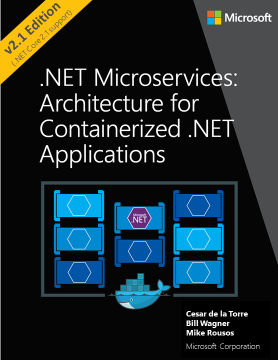
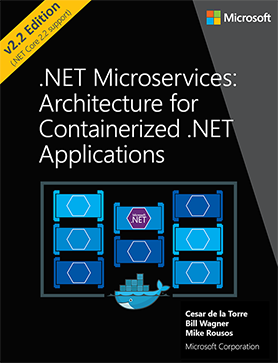
.NET Core 2.2 updates to Microservices eBook (#9873)
* Updated to 2.2 - text changes and Docker references

* Updated Cover

* Changes from review comments and other minor text updates

* Fix typo

* Fixed Duplicate statement

* Minor URL changes

* Updated ms.date

diff --git a/docs/standard/microservices-architecture/docker-application-development-process/docker-app-development-workflow.md b/docs/standard/microservices-architecture/docker-application-development-process/docker-app-development-workflow.md
@@ -3,7 +3,7 @@ title: Development workflow for Docker apps
 description: Understand the details of the workflow for developing Docker-based applications. Begin step by step and get into some details to optimize Dockerfiles and end with the simplified workflow available when using Visual Studio.
 author: CESARDELATORRE
 ms.author: wiwagn
-ms.date: 09/27/2018
+ms.date: 01/07/2019
 ---
 # Development workflow for Docker apps
 
@@ -91,14 +91,14 @@ In a similar fashion, Visual Studio can also add a docker-compose.yml file for t
 
 You usually build a custom image for your container on top of a base image you get from an official repository like the [Docker Hub](https://hub.docker.com/) registry. That is precisely what happens under the covers when you enable Docker support in Visual Studio. Your Dockerfile will use an existing `aspnetcore` image.
 
-Earlier we explained which Docker images and repos you can use, depending on the framework and OS you have chosen. For instance, if you want to use ASP.NET Core (Linux or Windows), the image to use is `microsoft/dotnet:2.1-aspnetcore-runtime`. Therefore, you just need to specify what base Docker image you will use for your container. You do that by adding `FROM microsoft/dotnet:2.1-aspnetcore-runtime` to your Dockerfile. This will be automatically performed by Visual Studio, but if you were to update the version, you update this value.
+Earlier we explained which Docker images and repos you can use, depending on the framework and OS you have chosen. For instance, if you want to use ASP.NET Core (Linux or Windows), the image to use is `microsoft/dotnet:2.2-aspnetcore-runtime`. Therefore, you just need to specify what base Docker image you will use for your container. You do that by adding `FROM microsoft/dotnet:2.2-aspnetcore-runtime` to your Dockerfile. This will be automatically performed by Visual Studio, but if you were to update the version, you update this value.
 
 Using an official .NET image repository from Docker Hub with a version number ensures that the same language features are available on all machines (including development, testing, and production).
 
 The following example shows a sample Dockerfile for an ASP.NET Core container.
 
 ```Dockerfile
-FROM microsoft/aspnetcore:2.0
+FROM microsoft/dotnet:2.2-aspnetcore-runtime
 ARG source
 WORKDIR /app
 EXPOSE 80
@@ -106,7 +106,7 @@ COPY ${source:-obj/Docker/publish} .
 ENTRYPOINT ["dotnet", " MySingleContainerWebApp.dll "]
 ```
 
-In this case, the image is based on version 2.1 of the official ASP.NET Core Docker image (multi-arch for Linux and Windows). This is the setting `FROM microsoft/dotnet:2.1-aspnetcore-runtime`. (For more information about this base image, see the [ASP.NET Core Docker Image](https://hub.docker.com/r/microsoft/aspnetcore/) page and the [.NET Core Docker Image](https://hub.docker.com/r/microsoft/dotnet/) page.) In the Dockerfile, you also need to instruct Docker to listen on the TCP port you will use at runtime (in this case, port 80, as configured with the EXPOSE setting).
+In this case, the image is based on version 2.2 of the official ASP.NET Core Docker image (multi-arch for Linux and Windows). This is the setting `FROM microsoft/dotnet:2.2-aspnetcore-runtime`. (For more information about this base image, see the [.NET Core Docker Image](https://hub.docker.com/r/microsoft/dotnet/) page.) In the Dockerfile, you also need to instruct Docker to listen on the TCP port you will use at runtime (in this case, port 80, as configured with the EXPOSE setting).
 
 You can specify additional configuration settings in the Dockerfile, depending on the language and framework you're using. For instance, the ENTRYPOINT line with `["dotnet", "MySingleContainerWebApp.dll"]` tells Docker to run a .NET Core application. If you're using the SDK and the .NET Core CLI (dotnet CLI) to build and run the .NET application, this setting would be different. The bottom line is that the ENTRYPOINT line and other settings will be different depending on the language and platform you choose for your application.
 
@@ -126,20 +126,20 @@ You can specify additional configuration settings in the Dockerfile, depending o
 
 ### Using multi-arch image repositories
 
-A single repo can contain platform variants, such as a Linux image and a Windows image. This feature allows vendors like Microsoft (base image creators) to create a single repo to cover multiple platforms (that is Linux and Windows). For example, the [microsoft/aspnetcore](https://hub.docker.com/r/microsoft/aspnetcore/) repository available in the Docker Hub registry provides support for Linux and Windows Nano Server by using the same repo name.
+A single repo can contain platform variants, such as a Linux image and a Windows image. This feature allows vendors like Microsoft (base image creators) to create a single repo to cover multiple platforms (that is Linux and Windows). For example, the [microsoft/dotnet](https://hub.docker.com/r/microsoft/dotnet/) repository available in the Docker Hub registry provides support for Linux and Windows Nano Server by using the same repo name.
 
 If you specify a tag, targeting a platform that is explicit like in the following cases:
 
-- `microsoft/dotnet:2.1-aspnetcore-runtime-stretch-slim` \
-  Targets: .NET Core 2.1 runtime-only on Linux
+- `microsoft/dotnet:2.2-aspnetcore-runtime-stretch-slim` \
+  Targets: .NET Core 2.2 runtime-only on Linux
 
-- `microsoft/dotnet:2.1-aspnetcore-runtime-nanoserver-1709` \
-  Targets: .NET Core 2.1 runtime-only on Windows Nano Server
+- `microsoft/dotnet:2.2-aspnetcore-runtime-nanoserver-1809` \
+  Targets: .NET Core 2.2 runtime-only on Windows Nano Server
 
 But, if you specify the same image name, even with the same tag, the multi-arch images (like the `aspnetcore` image) will use the Linux or Windows version depending on the Docker host OS you're deploying, as shown in the following example:
 
-- `microsoft/dotnet:2.1-aspnetcore-runtime` \
-  Multi-arch: .NET Core 2.1 runtime-only on Linux or Windows Nano Server depending on the Docker host OS
+- `microsoft/dotnet:2.2-aspnetcore-runtime` \
+  Multi-arch: .NET Core 2.2 runtime-only on Linux or Windows Nano Server depending on the Docker host OS
 
 This way, when you pull an image from a Windows host, it will pull the Windows variant, and pulling the same image name from a Linux host will pull the Linux variant.
 
@@ -168,11 +168,11 @@ Probably the best way to understand multi-stage is going through a Dockerfile in
 The initial Dockerfile might look something like this:
 
 ```Dockerfile
- 1  FROM microsoft/dotnet:2.1-aspnetcore-runtime AS base
+ 1  FROM microsoft/dotnet:2.2-aspnetcore-runtime AS base
  2  WORKDIR /app
  3  EXPOSE 80
  4
- 5  FROM microsoft/dotnet:2.1-sdk AS build
+ 5  FROM microsoft/dotnet:2.2-sdk AS build
  6  WORKDIR /src
  7  COPY src/Services/Catalog/Catalog.API/Catalog.API.csproj …
  8  COPY src/BuildingBlocks/HealthChecks/src/Microsoft.AspNetCore.HealthChecks … 
@@ -260,11 +260,11 @@ For the final optimization, it just happens that line 20 is redundant, as line 2
 The resulting file is then:
 
 ```Dockerfile
- 1  FROM microsoft/dotnet:2.1-aspnetcore-runtime AS base
+ 1  FROM microsoft/dotnet:2.2-aspnetcore-runtime AS base
  2  WORKDIR /app
  3  EXPOSE 80
  4
- 5  FROM microsoft/dotnet:2.1-sdk AS publish
+ 5  FROM microsoft/dotnet:2.2-sdk AS publish
  6  WORKDIR /src
  7  COPY . .
  8  RUN dotnet restore /ignoreprojectextensions:.dcproj

diff --git a/docs/standard/microservices-architecture/multi-container-microservice-net-applications/background-tasks-with-ihostedservice.md b/docs/standard/microservices-architecture/multi-container-microservice-net-applications/background-tasks-with-ihostedservice.md
@@ -3,7 +3,7 @@ title: Implement background tasks in microservices with IHostedService and the B
 description: .NET Microservices Architecture for Containerized .NET Applications | Understand the new options to use IHostedService and BackgroundService to implement background tasks in microservices .NET Core.
 author: CESARDELATORRE
 ms.author: wiwagn
-ms.date: 10/02/2018
+ms.date: 01/07/2019
 ---
 # Implement background tasks in microservices with IHostedService and the BackgroundService class
 
@@ -21,11 +21,11 @@ Note the difference made between `WebHost` and `Host`.
 
 A `WebHost` (base class implementing `IWebHost`) in ASP.NET Core 2.0 is the infrastructure artifact you use to provide HTTP server features to your process, such as if you are implementing an MVC web app or Web API service. It provides all the new infrastructure goodness in ASP.NET Core, enabling you to use dependency injection, insert middlewares in the request pipeline, etc. and precisely use these `IHostedServices` for background tasks.
 
-A `Host` (base class implementing `IHost`), however, is something new in .NET Core 2.1. Basically, a `Host` allows you to have a similar infrastructure than what you have with `WebHost` (dependency injection, hosted services, etc.), but in this case, you just want to have a simple and lighter process as the host, with nothing related to MVC, Web API or HTTP server features.
+A `Host` (base class implementing `IHost`) was introduced in .NET Core 2.1. Basically, a `Host` allows you to have a similar infrastructure than what you have with `WebHost` (dependency injection, hosted services, etc.), but in this case, you just want to have a simple and lighter process as the host, with nothing related to MVC, Web API or HTTP server features.
 
 Therefore, you can choose and either create a specialized host-process with IHost to handle the hosted services and nothing else, such a microservice made just for hosting the `IHostedServices`, or you can alternatively extend an existing ASP.NET Core `WebHost`, such as an existing ASP.NET Core Web API or MVC app. 
 
-Each approach has pros and cons depending on your business and scalability needs. The bottom line is basically that if your background tasks have nothing to do with HTTP (IWebHost) you should use IHost (with .NET Core 2.1).
+Each approach has pros and cons depending on your business and scalability needs. The bottom line is basically that if your background tasks have nothing to do with HTTP (IWebHost) you should use IHost.
 
 ## Registering hosted services in your WebHost or Host
 
@@ -41,7 +41,7 @@ SignalR is one example of an artifact using hosted services, but you can also us
 
 You can basically offload any of those actions to a background task based on IHostedService.
 
-The way you add one or multiple `IHostedServices` into your `WebHost` or `Host` is by registering them up through the standard DI (dependency injection) in an ASP.NET Core `WebHost` (or in a `Host` in .NET Core 2.1). Basically, you have to register the hosted services within the familiar `ConfigureServices()` method of the `Startup` class, as in the following code from a typical ASP.NET WebHost. 
+The way you add one or multiple `IHostedServices` into your `WebHost` or `Host` is by registering them up through the standard DI (dependency injection) in an ASP.NET Core `WebHost` (or in a `Host` in .NET Core 2.1 and above). Basically, you have to register the hosted services within the familiar `ConfigureServices()` method of the `Startup` class, as in the following code from a typical ASP.NET WebHost. 
 
 ```csharp
 public IServiceProvider ConfigureServices(IServiceCollection services)
@@ -95,11 +95,11 @@ As a developer, you are responsible for handling the stopping action or your ser
 
 You could go ahead and create your custom hosted service class from scratch and implement the `IHostedService`, as you need to do when using .NET Core 2.0. 
 
-However, since most background tasks will have similar needs in regard to the cancellation tokens management and other typical operations, .NET Core 2.1 provides a very convenient abstract base class you can derive from, named BackgroundService.
+However, since most background tasks will have similar needs in regard to the cancellation tokens management and other typical operations, there is a convenient abstract base class you can derive from, named `BackgroundService` (available since .NET Core 2.1).
 
 That class provides the main work needed to set up the background task.
 
-The next code is the abstract BackgroundService base class as implemented in .NET Core 2.1.
+The next code is the abstract BackgroundService base class as implemented in .NET Core.
 
 ```csharp
 // Copyright (c) .NET Foundation. Licensed under the Apache License, Version 2.0. 
@@ -243,7 +243,7 @@ The `IHostedService` interface provides a convenient way to start background tas
 -   **Implementing IHostedService in ASP.NET Core 2.0** <br/>
     [*https://www.stevejgordon.co.uk/asp-net-core-2-ihostedservice*](https://www.stevejgordon.co.uk/asp-net-core-2-ihostedservice)
 
--   **ASP.NET Core 2.1 Hosting samples** <br/>
+-   **GenericHost Sample using ASP.NET Core 2.1** <br/>
     [*https://github.com/aspnet/Hosting/tree/release/2.1/samples/GenericHostSample*](https://github.com/aspnet/Hosting/tree/release/2.1/samples/GenericHostSample)
 
 >[!div class="step-by-step"]

diff --git a/docs/standard/microservices-architecture/net-core-net-framework-containers/official-net-docker-images.md b/docs/standard/microservices-architecture/net-core-net-framework-containers/official-net-docker-images.md
@@ -3,7 +3,7 @@ title: Official .NET Docker images
 description: .NET Microservices Architecture for Containerized .NET Applications | Official .NET Docker images
 author: CESARDELATORRE
 ms.author: wiwagn
-ms.date: 09/11/2018
+ms.date: 01/07/2019
 ---
 # Official .NET Docker images
 
@@ -25,13 +25,13 @@ Why multiple images? When developing, building, and running containerized applic
 
 ### During development and build
 
-During development, what is important is how fast you can iterate changes, and the ability to debug the changes. The size of the image is not as important as the ability to make changes to your code and see the changes quickly. Some tools and "build-agent containers", use the development .NET Core image (*microsoft/dotnet:2.1-sdk*) during development and build proces. When building inside a Docker container, the important aspects are the elements that are needed in order to compile your app. This includes the compiler and any other .NET dependencies.
+During development, what is important is how fast you can iterate changes, and the ability to debug the changes. The size of the image is not as important as the ability to make changes to your code and see the changes quickly. Some tools and "build-agent containers", use the development .NET Core image (*microsoft/dotnet:2.2-sdk*) during development and build proces. When building inside a Docker container, the important aspects are the elements that are needed in order to compile your app. This includes the compiler and any other .NET dependencies.
 
 Why is this type of build image important? You do not deploy this image to production. Instead, it is an image you use to build the content you place into a production image. This image would be used in your continuous integration (CI) environment or build environment when using Docker Multi-stage builds.
 
 ### In production
 
-What is important in production is how fast you can deploy and start your containers based on a production .NET Core image. Therefore, the runtime-only image based on *microsoft/dotnet:2.1-aspnetcore-runtime* is small so that it can travel quickly across the network from your Docker registry to your Docker hosts. The contents are ready to run, enabling the fastest time from starting the container to processing results. In the Docker model, there is no need for compilation from C\# code, as there is when you run dotnet build or dotnet publish when using the build container.
+What is important in production is how fast you can deploy and start your containers based on a production .NET Core image. Therefore, the runtime-only image based on *microsoft/dotnet:2.2-aspnetcore-runtime* is small so that it can travel quickly across the network from your Docker registry to your Docker hosts. The contents are ready to run, enabling the fastest time from starting the container to processing results. In the Docker model, there is no need for compilation from C\# code, as there is when you run dotnet build or dotnet publish when using the build container.
 
 In this optimized image you put only the binaries and other content needed to run the application. For example, the content created by dotnet publish contains only the compiled .NET binaries, images, .js, and .css files. Over time, you will see images that contain pre-jitted (the compilation from IL to native that occurs at runtime) packages.
 
@@ -41,8 +41,8 @@ When you explore the .NET image repositories at Docker Hub, you will find multip
 
 | Image                                       | Comments                                                                                          |
 | ------------------------------------------- | ------------------------------------------------------------------------------------------------- |
-| microsoft/dotnet:**2.1-aspnetcore-runtime** | ASP.NET Core, with runtime only and ASP.NET Core optimizations, on Linux and Windows (multi-arch) |
-| microsoft/dotnet:**2.1-sdk**                | .NET Core, with SDKs included, on Linux and Windows (multi-arch)                                  |
+| microsoft/dotnet:**2.2-aspnetcore-runtime** | ASP.NET Core, with runtime only and ASP.NET Core optimizations, on Linux and Windows (multi-arch) |
+| microsoft/dotnet:**2.2-sdk**                | .NET Core, with SDKs included, on Linux and Windows (multi-arch)                                  |
 
 >[!div class="step-by-step"]
 >[Previous](net-container-os-targets.md)

diff --git a/docs/standard/microservices-architecture/index.md b/docs/standard/microservices-architecture/index.md
@@ -3,13 +3,13 @@ title: .NET Microservices. Architecture for Containerized .NET Applications
 description: .NET Microservices Architecture for Containerized .NET Applications | Microservices are modular and independently deployable services. Docker containers (for Linux and Windows) simplify deployment and testing by bundling a service and its dependencies into a single unit, which is then run in an isolated environment.
 author: CESARDELATORRE
 ms.author: wiwagn
-ms.date: 08/31/2018
+ms.date: 01/07/2019
 ---
 # .NET Microservices: Architecture for Containerized .NET Applications
 
 ![Book cover](./media/cover-small.png)
 
-**EDITION v2.1.03** - Updated to ASP.NET Core 2.1
+**EDITION v2.2.00** - Updated to ASP.NET Core 2.2
 
 This guide is an introduction to developing microservices-based applications and managing them using containers. It discusses architectural design and implementation approaches using .NET Core and Docker containers. 
 
@@ -43,7 +43,7 @@ After you have studied this guide, your next step would be to learn about produc
 
 ## Version
 
-This guide has been revised to cover **.NET Core 2.1** version plus many additional updates related to the same “wave” of technologies (that is. Azure and additional 3rd party technologies) coinciding in time with .NET Core 2.1. That’s why the book version has also been updated to version **2.1**. 
+This guide has been revised to cover **.NET Core 2.2** version plus many additional updates related to the same “wave” of technologies (that is. Azure and additional 3rd party technologies) coinciding in time with .NET Core 2.2. That’s why the book version has also been updated to version **2.2**. 
 
 ## What this guide does not cover
 
@@ -118,6 +118,8 @@ Participants and reviewers:
 >
 > **Scott Hunter**, Partner Director PM, .NET team, Microsoft
 >
+> **Nish Anil**, Sr. Program Manager, .NET team, Microsoft
+>
 > **Dylan Reisenberger**, Architect and Dev Lead at Polly
 >
 > **Steve Smith**, Software Craftsman & Trainer at ASPSmith Ltd.
@@ -141,7 +143,6 @@ Participants and reviewers:
 > **Charles Lowell**, Software Engineer, VS CAT team, Microsoft
 >
 > **Miguel Veloso**, Sr. Consultant at Turing Challenge
-
 
 ## Copyright
 

diff --git a/docs/standard/microservices-architecture/multi-container-microservice-net-applications/data-driven-crud-microservice.md b/docs/standard/microservices-architecture/multi-container-microservice-net-applications/data-driven-crud-microservice.md
@@ -3,7 +3,7 @@ title: Creating a simple data-driven CRUD microservice
 description: .NET Microservices Architecture for Containerized .NET Applications | Understand the creation of a simple CRUD (data driven) microservice within the context of a microservices application.
 author: CESARDELATORRE
 ms.author: wiwagn
-ms.date: 10/02/2018
+ms.date: 01/07/2019
 ---
 # Creating a simple data-driven CRUD microservice
 
@@ -420,10 +420,10 @@ It is that simple. And because it is automatically generated, the Swagger metada
   [*https://docs.microsoft.com/aspnet/core/tutorials/web-api-help-pages-using-swagger*](https://docs.microsoft.com/aspnet/core/tutorials/web-api-help-pages-using-swagger)
 
 - **Get started with Swashbuckle and ASP.NET Core** \
-  [*https://docs.microsoft.com/aspnet/core/tutorials/getting-started-with-swashbuckle?view=aspnetcore-2.1\&tabs=visual-studio%2Cvisual-studio-xml*](https://docs.microsoft.com/aspnet/core/tutorials/getting-started-with-swashbuckle?view=aspnetcore-2.1\&tabs=visual-studio%2Cvisual-studio-xml)
+  [*https://docs.microsoft.com/aspnet/core/tutorials/getting-started-with-swashbuckle?tabs=visual-studio*](https://docs.microsoft.com/aspnet/core/tutorials/getting-started-with-swashbuckle?tabs=visual-studio)
 
 - **Get started with NSwag and ASP.NET Core** \
-  [*https://docs.microsoft.com/aspnet/core/tutorials/getting-started-with-nswag?view=aspnetcore-2.1\&tabs=visual-studio%2Cvisual-studio-xml*](https://docs.microsoft.com/en-us/aspnet/core/tutorials/getting-started-with-nswag?view=aspnetcore-2.1\&tabs=visual-studio%2Cvisual-studio-xml)
+  [*https://docs.microsoft.com/aspnet/core/tutorials/getting-started-with-nswag?tabs=visual-studio*](https://docs.microsoft.com/aspnet/core/tutorials/getting-started-with-nswag?tabs=visual-studio)
 
 >[!div class="step-by-step"]
 >[Previous](microservice-application-design.md)

diff --git a/docs/standard/microservices-architecture/container-docker-introduction/docker-terminology.md b/docs/standard/microservices-architecture/container-docker-introduction/docker-terminology.md
@@ -3,7 +3,7 @@ title: Docker terminology
 description: .NET Microservices Architecture for Containerized .NET Applications | Docker terminology
 author: CESARDELATORRE
 ms.author: wiwagn
-ms.date: 08/31/2018
+ms.date: 01/07/2019
 ---
 # Docker terminology
 
@@ -27,7 +27,7 @@ This section lists terms and definitions you should be familiar with before gett
 
 **Registry**: A service that provides access to repositories. The default registry for most public images is [Docker Hub](https://hub.docker.com/) (owned by Docker as an organization). A registry usually contains repositories from multiple teams. Companies often have private registries to store and manage images they've created. Azure Container Registry is another example.
 
-**Multi-arch image**: For multi-architecture, is a feature that simplifies the selection of the appropriate image, according to the platform where Docker is running, e.g. when a Dockerfile requests a base image **FROM microsoft/dotnet:2.1-sdk** from the registry it actually gets **2.1-sdk-nanoserver-1709**, **2.1-sdk-nanoserver-1803** or **2.1-sdk-alpine**, depending on the operating system and version where Docker is running.
+**Multi-arch image**: For multi-architecture, is a feature that simplifies the selection of the appropriate image, according to the platform where Docker is running, e.g. when a Dockerfile requests a base image **FROM microsoft/dotnet:2.2-sdk** from the registry it actually gets **2.2-sdk-nanoserver-1709**, **2.2-sdk-nanoserver-1803**, **2.2-sdk-nanoserver-1809** or **2.2-sdk-alpine**, depending on the operating system and version where Docker is running.
 
 **Docker Hub**: A public registry to upload images and work with them. Docker Hub provides Docker image hosting, public or private registries, build triggers and web hooks, and integration with GitHub and Bitbucket.
 

diff --git a/docs/standard/microservices-architecture/net-core-net-framework-containers/net-container-os-targets.md b/docs/standard/microservices-architecture/net-core-net-framework-containers/net-container-os-targets.md
@@ -3,7 +3,7 @@ title: What OS to target with .NET containers
 description: .NET Microservices Architecture for Containerized .NET Applications | What OS to target with .NET containers
 author: CESARDELATORRE
 ms.author: wiwagn
-ms.date: 09/11/2018
+ms.date: 01/07/2019
 ---
 # What OS to target with .NET containers
 
@@ -32,21 +32,21 @@ When you add the image name to your Dockerfile file, you can select the operatin
 </thead>
 <tbody>
 <tr>
-<td>microsoft/dotnet:2.1-runtime</td>
-<td>.NET Core 2.1 multi-architecture: Supports Linux and Windows Nano Server depending on the Docker host.</td>
+<td>microsoft/dotnet:2.2-runtime</td>
+<td>.NET Core 2.2 multi-architecture: Supports Linux and Windows Nano Server depending on the Docker host.</td>
 </tr>
 <tr class="odd">
-<td>microsoft/dotnet:2.1-aspnetcore-runtime</td>
-<td><p>ASP.NET Core 2.1 multi-architecture: Supports Linux and Windows Nano Server depending on the Docker host.</p>
+<td>microsoft/dotnet:2.2-aspnetcore-runtime</td>
+<td><p>ASP.NET Core 2.2 multi-architecture: Supports Linux and Windows Nano Server depending on the Docker host.</p>
 <p>The aspnetcore image has a few optimizations for ASP.NET Core.</p></td>
 </tr>
 <tr class="even">
-<td>microsoft/dotnet:2.1-aspnetcore-runtime-alpine</td>
-<td>.NET Core 2.1 runtime-only on Linux Alpine distro</td>
+<td>microsoft/dotnet:2.2-aspnetcore-runtime-alpine</td>
+<td>.NET Core 2.2 runtime-only on Linux Alpine distro</td>
 </tr>
 <tr class="odd">
-<td>microsoft/dotnet:2.1-aspnetcore-runtime-nanoserver-1803</td>
-<td>.NET Core 2.1 runtime-only on Windows Nano Server (Windows Server version 1803)</td>
+<td>microsoft/dotnet:2.2-aspnetcore-runtime-nanoserver-1803</td>
+<td>.NET Core 2.2 runtime-only on Windows Nano Server (Windows Server version 1803)</td>
 </tr>
 </tbody>
 </table>

diff --git a/docs/standard/microservices-architecture/implement-resilient-applications/use-httpclientfactory-to-implement-resilient-http-requests.md b/docs/standard/microservices-architecture/implement-resilient-applications/use-httpclientfactory-to-implement-resilient-http-requests.md
@@ -3,7 +3,7 @@ title: Use HttpClientFactory to implement resilient HTTP requests
 description: Learn how to use HttpClientFactory, available since .NET Core 2.1, for creating `HttpClient` instances, making it easy for you to use it in your applications. 
 author: CESARDELATORRE
 ms.author: wiwagn
-ms.date: 10/16/2018
+ms.date: 01/07/2019
 ---
 # Use HttpClientFactory to implement resilient HTTP requests
 
@@ -19,7 +19,7 @@ Therefore, `HttpClient` is intended to be instantiated once and reused throughou
 
 But there’s a second issue with `HttpClient` that you can have when you use it as singleton or static object. In this case, a singleton or static `HttpClient` doesn't respect DNS changes, as explained in this [issue at the .NET Core GitHub repo](https://github.com/dotnet/corefx/issues/11224). 
 
-To address those mentioned issues and make the management of `HttpClient` instances easier, .NET Core 2.1 offers a new `HttpClientFactory` that can also be used to implement resilient HTTP calls by integrating Polly with it.   
+To address those mentioned issues and make the management of `HttpClient` instances easier, .NET Core 2.1 introduced a new `HttpClientFactory` that can also be used to implement resilient HTTP calls by integrating Polly with it.   
 
 ## What is HttpClientFactory
 
@@ -151,7 +151,7 @@ Up to this point, the code shown is just performing regular Http requests, but t
 
 ## Additional resources
 
-- **Using HttpClientFactory in .NET Core 2.1**\
+- **Using HttpClientFactory in .NET Core**\
   [*https://docs.microsoft.com/aspnet/core/fundamentals/http-requests?view=aspnetcore-2.1*](/aspnet/core/fundamentals/http-requests?view=aspnetcore-2.1)
 
 - **HttpClientFactory GitHub repo**\

diff --git a/docs/standard/microservices-architecture/architect-microservice-container-applications/direct-client-to-microservice-communication-versus-the-API-Gateway-pattern.md b/docs/standard/microservices-architecture/architect-microservice-container-applications/direct-client-to-microservice-communication-versus-the-API-Gateway-pattern.md
@@ -3,7 +3,7 @@ title: The API gateway pattern versus the direct client-to-microservice communic
 description: Understand the differences and the uses of the API gateway pattern and the direct client-to-microservice communication.
 author: CESARDELATORRE
 ms.author: wiwagn
-ms.date: 09/20/2018
+ms.date: 01/07/2019
 ---
 # The API gateway pattern versus the Direct client-to-microservice communication
 
@@ -128,7 +128,7 @@ There can be many more cross-cutting concerns offered by the API Gateways produc
 
 **Figure 4-14**. Using Azure API Management for your API Gateway
 
-In this case, when using a product like Azure API Management, the fact that you might have a single API Gateway is not so risky because these kinds of API Gateways are "thinner", meaning that you don't implement custom C# code that could evolve towards a monolithic component. These products act like a reverse proxy for ingress communication, where you can also filter the APIs from the internal microservices and apply authorization to the published APIs in this single tier.
+In this case, when using a product like Azure API Management, the fact that you might have a single API Gateway is not so risky because these kinds of API Gateways are "thinner", meaning that you don't implement custom C# code that could evolve towards a monolithic component. 
 
 The API Gateway products usually act like a reverse proxy for ingress communication, where you can also filter the APIs from the internal microservices plus apply authorization to the published APIs in this single tier.
 

diff --git a/docs/standard/microservices-architecture/net-core-net-framework-containers/net-framework-container-scenarios.md b/docs/standard/microservices-architecture/net-core-net-framework-containers/net-framework-container-scenarios.md
@@ -3,7 +3,7 @@ title: When to choose .NET Framework for Docker containers
 description: .NET Microservices Architecture for Containerized .NET Applications | When to choose .NET Framework for Docker containers
 author: CESARDELATORRE
 ms.author: wiwagn
-ms.date: 09/11/2018
+ms.date: 01/07/2019
 ---
 # When to choose .NET Framework for Docker containers
 
@@ -25,7 +25,7 @@ However, even with that exceptional progression since .NET Standard 2.0 and .NET
 
 ## Using .NET technologies not available for .NET Core 
 
-Some .NET Framework technologies are not available in the current version of .NET Core (version 2.1 as of this writing). Some of them will be available in later .NET Core releases (.NET Core 2.x), but others do not apply to the new application patterns targeted by .NET Core and might never be available.
+Some .NET Framework technologies are not available in the current version of .NET Core (version 2.2 as of this writing). Some of them will be available in later .NET Core releases (.NET Core 2.x), but others do not apply to the new application patterns targeted by .NET Core and might never be available.
 
 The following list shows most of the technologies that are not available in .NET Core 2.x:
 

diff --git a/docs/standard/microservices-architecture/implement-resilient-applications/implement-http-call-retries-exponential-backoff-polly.md b/docs/standard/microservices-architecture/implement-resilient-applications/implement-http-call-retries-exponential-backoff-polly.md
@@ -3,7 +3,7 @@ title: Implement HTTP call retries with exponential backoff with Polly
 description: Learn how to handle HTTP failures with Polly and HttpClientFactory.
 author: CESARDELATORRE
 ms.author: wiwagn
-ms.date: 10/16/2018
+ms.date: 01/07/2019
 ---
 
 # Implement HTTP call retries with exponential backoff with HttpClientFactory and Polly policies
@@ -16,9 +16,9 @@ However, using Polly’s library with your own custom code with HttpClient can b
 
 The following steps show how you can use Http retries with Polly integrated into HttpClientFactory, which is explained in the previous section.
 
-**Reference the ASP.NET Core 2.1 packages**
+**Reference the ASP.NET Core 2.2 packages**
 
-Your project has to be using the ASP.NET Core 2.1 packages from NuGet. You typically need the `AspNetCore` metapackage, and the extension package `Microsoft.Extensions.Http.Polly`.
+`HttpClientFactory` is available since .NET Core 2.1 however we recommend you to use the latest ASP.NET Core 2.2 packages from NuGet in your project. You typically need the `AspNetCore` metapackage, and the extension package `Microsoft.Extensions.Http.Polly`.
 
 **Configure a client with Polly’s Retry policy, in Startup**
 
